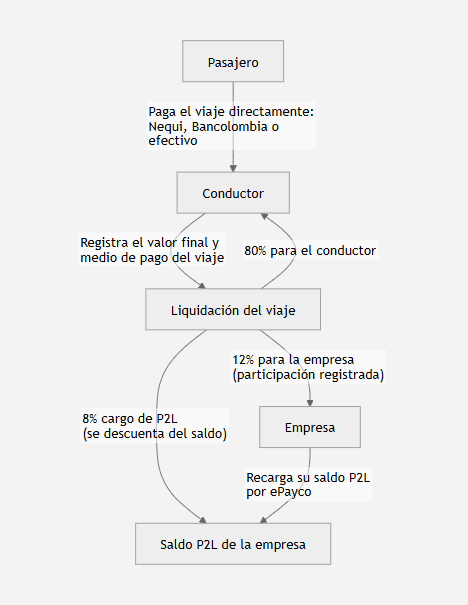
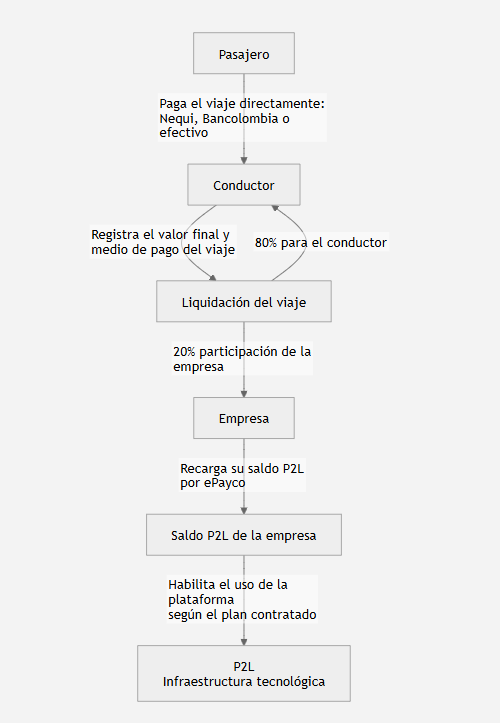
Actualizar diagrama de flujo de pagos P2L (80/20, plan cubre plataforma).

Changed region(s): [[0.1795, 0.0595, 0.8376, 0.9818], [0.7479, 0.714, 0.7778, 0.7438], [0.5684, 0.0595, 0.5983, 0.0893]]

diff --git a/tarifas-y-pagos.html b/tarifas-y-pagos.html
@@ -421,7 +421,7 @@
       <div class="container">
         <h2 data-i18n="payments.s1_title">1. Flujo de dinero</h2>
         <figure class="flow-card">
-          <img src="assets/flujo-pagos-p2l.png" alt="Esquema de costos, tarifas, transacciones y planes de pago P2L" data-i18n-aria="payments.s1_img_alt" />
+          <img src="assets/flujo-pagos-p2l.png?v=20260817e" alt="Esquema de costos, tarifas, transacciones y planes de pago P2L" data-i18n-aria="payments.s1_img_alt" />
           <figcaption data-i18n="payments.s1_img_caption">El pasajero paga al conductor. P2L registra la distribución: 80% operativo, 20% empresa, 0% plataforma (el plan cubre el costo).</figcaption>
         </figure>
 
